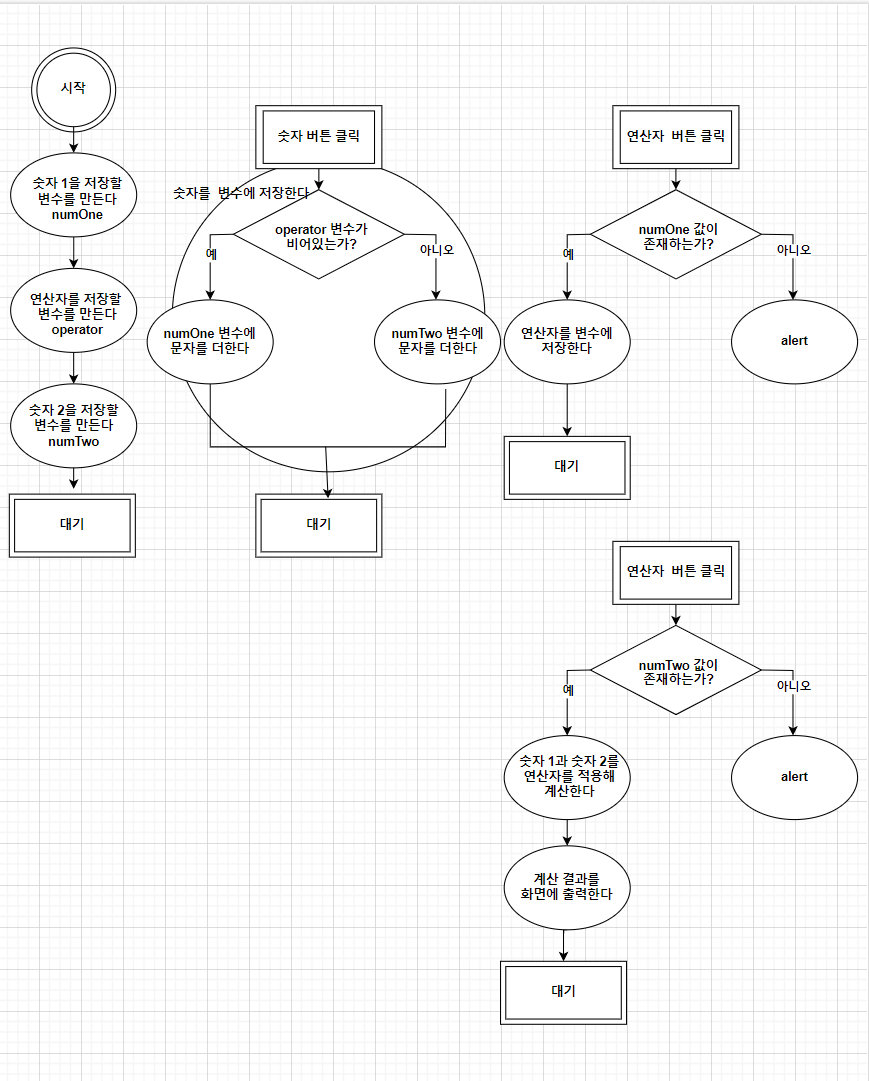
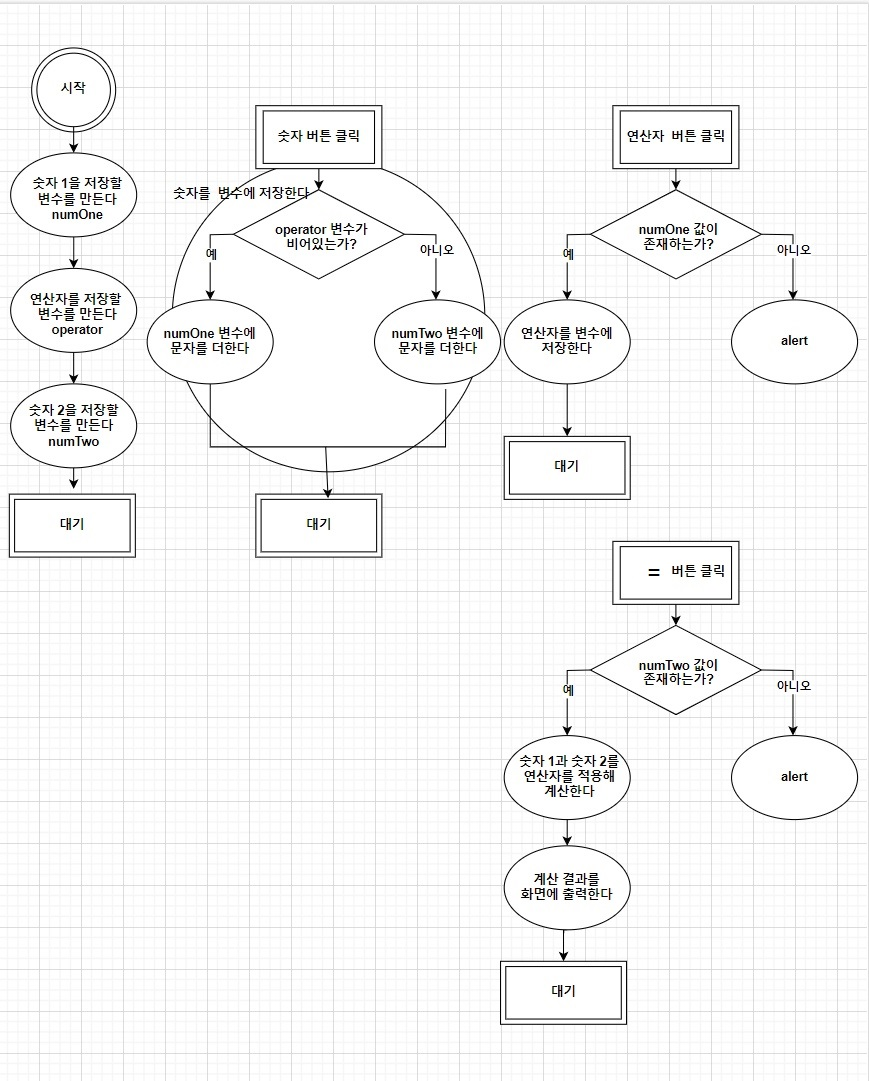
second commit

diff --git a/계산기/calculator.html b/계산기/calculator.html
@@ -47,23 +47,71 @@
 		let numTwo ='';
 		const $operator = document.querySelector('#operator'); 
 		const $result = document.querySelector('#result');
-		document.querySelector('#num-0').addEventListener('click', () => {});
-		document.querySelector('#num-1').addEventListener('click', () => {});
-		document.querySelector('#num-2').addEventListener('click', () => {});
-		document.querySelector('#num-3').addEventListener('click', () => {});
-		document.querySelector('#num-4').addEventListener('click', () => {});
-		document.querySelector('#num-5').addEventListener('click', () => {});
-		document.querySelector('#num-6').addEventListener('click', () => {});
-		document.querySelector('#num-7').addEventListener('click', () => {});
-		document.querySelector('#num-8').addEventListener('click', () => {});
-		document.querySelector('#num-9').addEventListener('click', () => {});
-		document.querySelector('#plus').addEventListener('click', () => {});
-		document.querySelector('#minus').addEventListener('click', () => {});
-		document.querySelector('#multiply').addEventListener('click', () => {});
-		document.querySelector('#divide').addEventListener('click', () => {});
-		document.querySelector('#calculate').addEventListener('click', () => {});
-		document.querySelector('#clear').addEventListener('click', () => {});
+    const onClickNumber = (event) => {
+      if (!operator) { // 비어 있다.
+        numOne += event.target.textContent; 
+        $result.value += event.target.textContent;
+        return;
+      } 
+      // 비어 있지 않다.
+      if (!numTwo) {
+        $result.value = '';
+      }
+      numTwo += event.target.textContent;
+      $result.value += event.target.textContent;
+    };
+		document.querySelector('#num-0').addEventListener('click', onClickNumber);
+		document.querySelector('#num-1').addEventListener('click', onClickNumber);
+		document.querySelector('#num-2').addEventListener('click', onClickNumber);
+		document.querySelector('#num-3').addEventListener('click', onClickNumber);
+		document.querySelector('#num-4').addEventListener('click', onClickNumber);
+		document.querySelector('#num-5').addEventListener('click', onClickNumber);
+		document.querySelector('#num-6').addEventListener('click', onClickNumber);
+		document.querySelector('#num-7').addEventListener('click', onClickNumber);
+		document.querySelector('#num-8').addEventListener('click', onClickNumber);
+		document.querySelector('#num-9').addEventListener('click', onClickNumber);
 
+    const onClickOperator = (op) => () => {
+      if (numOne) {
+        operator = op;
+        $operator.value = op;
+      } else {
+        alert('숫자를 먼저 입력하세요.');
+      }
+    }
+		document.querySelector('#plus').addEventListener('click',onClickOperator('+'));
+		document.querySelector('#minus').addEventListener('click', onClickOperator('-'));
+		document.querySelector('#multiply').addEventListener('cliczk', onClickOperator('*'));
+		document.querySelector('#divide').addEventListener('click', onClickOperator('/'));
+		document.querySelector('#calculate').addEventListener('click', () => {
+      if (numTwo) {
+        switch (operator) {
+          case '+':
+            $result.value = parseInt(numOne) + parseInt(numTwo);
+            break;
+          case '-':
+            $result.value = numOne - numTwo;
+            break;
+          case '*':
+            $result.value = numOne * numTwo;
+            break;
+          case '/':
+            $result.value = numOne / numTwo;
+            break;
+          default:
+            break;
+        }
+      } else {
+        alert ('숫자를 먼저 입력하세요.');
+      }
+    });
+		document.querySelector('#clear').addEventListener('click', () => {
+      numOne = '';
+      operator = '';
+      numTwo = '';
+      $operator.value = '';
+      $result.value = '';
+    });
 	</script>
 </body>
 </html>
